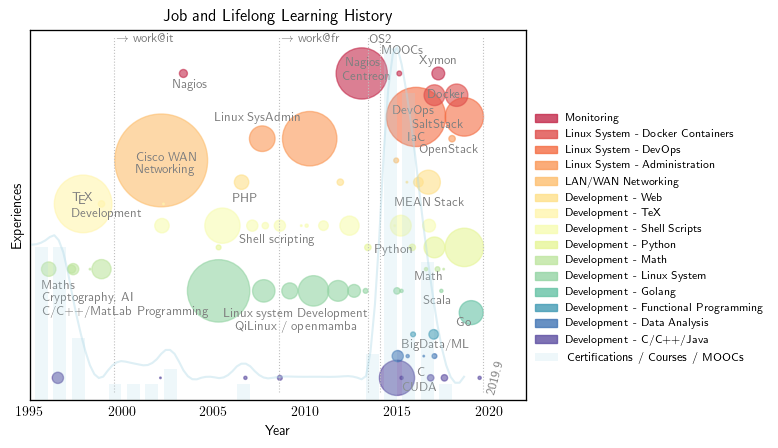
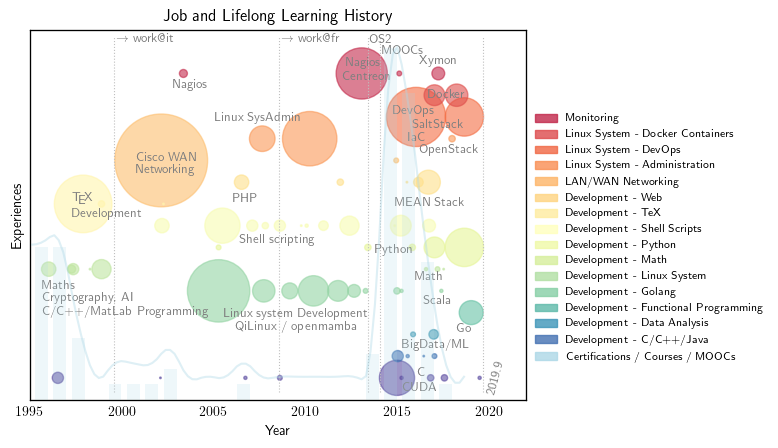
plot: remove the crappy fixed anchor in the legend

Changed region(s): [[0.6787, 0.625, 0.9563, 0.8125], [0.5861, 0.7188, 0.617, 0.75]]

diff --git a/scripts/plot-experiences.py b/scripts/plot-experiences.py
@@ -66,7 +66,7 @@ def parser(source):
 
     return expr_types, expr_map
 
-def make_jobs_plot(experiences, area_adj=0.65):
+def make_jobs_plot(experiences, area_adj):
     """Create the jobs history plot and legend"""
 
     def textlabel(sp, x, y, text, rotation='horizontal'):
@@ -167,9 +167,19 @@ def make_jobs_plot(experiences, area_adj=0.65):
         textlabel(ax, x, y, label)
 
     # Add a legend
-    handles = \
-        list(mpatches.Patch(color=getcolor(expr_types.index(e), len(expr_types)),
-             label=e, alpha=0.8) for e in expr_types)
+
+    # prepend and extra entry for certifications, courses, and moocs
+    # with a fixed color 'lightblue'
+    expr_types = ['Certifications / Courses / MOOCs'] + expr_types
+    legend_color = lambda i, size: getcolor(i, size) if i > 0 else 'lightblue'
+
+    handles = list((
+        mpatches.Patch(
+            color=legend_color(expr_types.index(e), len(expr_types)),
+            label=e,
+            alpha=0.8)
+        for e in expr_types))
+
     lgd = ax.legend(handles[::-1], expr_types[::-1],
                     bbox_to_anchor=(1.5, 0.8),
                     fontsize='small',
@@ -204,12 +214,6 @@ def make_jobs_plot(experiences, area_adj=0.65):
         0]
     ax2.bar(years, courses, width=bar_width, color=bar_color, alpha=0.2)
     ax2.set_yticks([])
-    lgd2 = ax2.legend(
-        ['Certifications / Courses / MOOCs'],
-        loc='upper left',
-        bbox_to_anchor=(0.998, 0.16), # FIXME: fix this crappy fixed anchor
-        fontsize='small',
-        frameon=False)
 
     # Add a spline that interpolates the number of completed courses
     xnew = np.linspace(years.min(), years.max(), 100)
@@ -242,7 +246,10 @@ def main():
         elif o in ('-i', '--image'):
             image = a
 
-    fig, legend = make_jobs_plot(parser(source))
+    # area adjustment factor for plot circles
+    area_adj = 0.65
+
+    fig, legend = make_jobs_plot(parser(source), area_adj)
     try:
         fig.savefig(image, bbox_extra_artists=(legend,), bbox_inches='tight')
         print('The image has been saved as', image)
